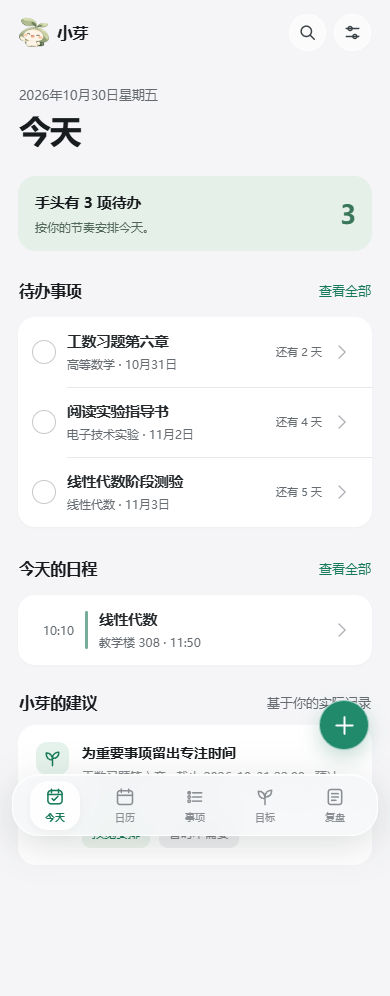
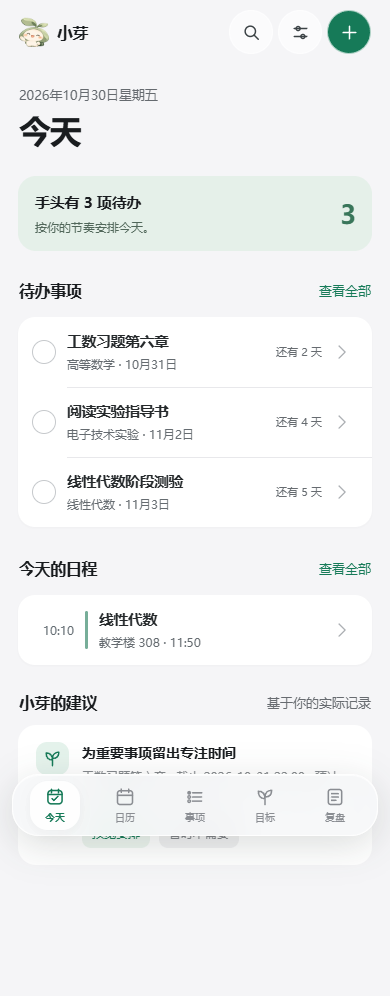
polish(xiaoya): keep mobile create action in top toolbar

Changed region(s): [[0.8, 0.6847, 0.9538, 0.7781], [0.8308, 0.0, 0.9538, 0.0622], [0.7692, 0.0, 0.8, 0.0622]]

diff --git a/little-works/xiaoya-apple/native-v3/style.css b/little-works/xiaoya-apple/native-v3/style.css
@@ -17,6 +17,8 @@
   .sheet{width:100%;max-height:93dvh}.toast{bottom:calc(170px + env(safe-area-inset-bottom))}.calendar-day{padding:18px 11px}.calendar-entries{gap:10px}.week-rail{padding:10px 3px}.day-pill{min-height:59px}.day-pill strong{font-size:16px}
 }
 @media(max-width:359px){.workspace-grid{padding:0 17px}.topbar{padding-left:17px;padding-right:17px}.page-heading h1{font-size:30px}.bottom-nav{left:7px;right:7px;border-radius:22px}.tab{min-width:47px}.row-time{font-size:10px}.progress-tile{padding:12px 10px}}
+/* Apple-style contextual add lives in the navigation toolbar, never over content. */
+@media(max-width:700px){.topbar .toolbar-actions{gap:5px}.topbar .glass-btn{width:44px;height:44px;min-width:44px;min-height:44px}.topbar .glass-btn.add-top{display:grid}.floating-add{display:none!important}}
 @media(prefers-reduced-motion:reduce){*,*::before,*::after{animation-duration:.001ms!important;transition-duration:.001ms!important;scroll-behavior:auto!important}}
 @media(prefers-reduced-transparency:reduce),(prefers-contrast:more){.bottom-nav,.glass-btn{background:#fff;backdrop-filter:none;-webkit-backdrop-filter:none;border:1px solid #dadde0}.sheet::backdrop{backdrop-filter:none;-webkit-backdrop-filter:none}}
 

diff --git a/docs/xiaoya-native-v3-qa/DELIVERY.md b/docs/xiaoya-native-v3-qa/DELIVERY.md
@@ -10,7 +10,7 @@
 - **日历**：24 小时时间轴、重叠事件分栏、当前时间标记、课程与活动分别新建、CSV/ICS 导入及 ICS 导出。
 - **目标/复盘**：可验证的行动记录和本周真实统计；不虚构数据。
 - **设置**：iOS 分组列表、原版光学开关、学期、提醒、JSON 导入导出、私人/演示隔离。
-- **桌面和手机**：桌面侧栏/内容/小芽陪伴栏；手机底部悬浮导航、独立操作按钮、可滚动内容。
+- **桌面和手机**：桌面侧栏/内容/小芽陪伴栏；手机底部玻璃导航、顶部原生工具栏新建操作、可滚动内容。
 
 部分高级模型实验、BYOK / 专项 AI 调试仍在原 `../index.html`“完整功能版”入口，尚未成为 V3 内的原生模块，因此不能宣称“全部功能已完成原生迁移”。
 
@@ -25,13 +25,13 @@
 
 最新功能测试（在独立临时浏览器上下文，不访问用户私人记录）：
 - `qa-contract.cjs` 和 `qa-timeline.mjs`：9 项；
-- `qa-browser.cjs`：34 项（320/390/768/1440、布局、日期、最后内容可触及、任务/目标）；
+- `qa-browser.cjs`：35 项（320/390/768/1440、布局、日期、最后内容可触及、任务/目标）；
 - `qa-deep.cjs`：18 项（AI 建议授权、课程/活动、重叠、导入导出、有效/无效备份、跨标签页、撤销、数据损坏保护）；
 - `qa-webkit.cjs`：17 项（WebKit、触控、课程弹窗、光学组件）。
-合计 **78 项**；发布前以新运行结果为准。Playwright WebKit **不是**实体 iPhone Safari，也不是苹果官方认证。
+合计 **79 项**；发布前以新运行结果为准。Playwright WebKit **不是**实体 iPhone Safari，也不是苹果官方认证。
 
-390px 与 1440px 截图已实际检查；本文件夹有真实合成演示数据截图 `today-390.png`、`calendar-390.png`、`settings-390.png`、`today-1440.png`、`settings-1440.png`。主要问题及处理：修复文件开头误写的 `\\n` 造成 `:root` token 丢失；修复凌晨时间轴初始滚动；补齐手机“新增课程”；修复移动端最后内容被悬浮导航遮挡的检查方法；复用原版光学控件而非自制 SVG。
+390px 与 1440px 截图已实际检查；本文件夹有真实合成演示数据截图 `today-390.png`、`calendar-390.png`、`settings-390.png`、`today-1440.png`、`settings-1440.png`。主要问题及处理：修复文件开头误写的 `\\n` 造成 `:root` token 丢失；修复凌晨时间轴初始滚动；补齐手机“新增课程”；修复移动端浮动加号覆盖建议标题，将新建操作整合进顶部 44px 触控工具栏，验证底部内容仍可滚动到可见范围；复用原版光学控件而非自制 SVG。
 
 ## 发布与回退
 
-预览部署位置：`https://ndshuge.github.io/ndshuge-galaxy/little-works/xiaoya-apple/native-v3/`。此路径上线后仍需检查网络与 Pages 构建；**正式 Apple 根目录和比赛链接不改**，评委始终进入原稳定版。待高级功能原生迁移、真实 iPhone Safari 检验及用户视觉确认后再考虑切换默认入口。
+预览部署位置：`https://ndshuge.github.io/ndshuge-galaxy/little-works/xiaoya-apple/native-v3/`。已部署为独立 Pages 预览，并验证 Edge（390px/1440px）及 WebKit（390px）的 HTML、资源、导航、光学控件、时间轴、无横向溢出和无运行错误，共 18/18 项线上检查；**正式 Apple 根目录和比赛链接不改**，评委始终进入原稳定版。待高级功能原生迁移、真实 iPhone Safari 检验及用户视觉确认后再考虑切换默认入口。
